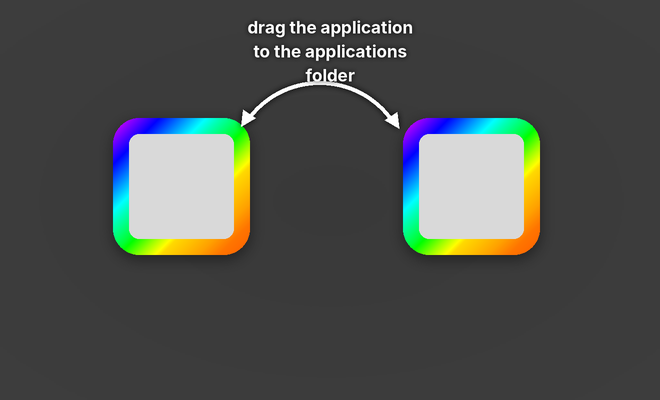
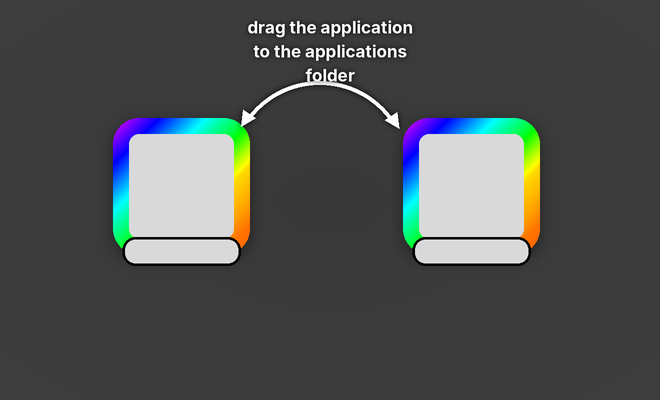
Add name plates to the default background
Each slot now carries the outlined plate the Finder's item name sits on:
118 x 28.5 pt, 13 pt corners, centred on the slot at y 251.2, straddling
its bottom edge.

Geometry was fitted against the reference image by sweeping size,
position, radius and stroke width; mean absolute pixel error over the
plate region is 5.3/255, and 3.6/255 over the whole background.

A 104 pt icon centred in a slot ends at y 238, so its label lands inside
the plate without any change to the defaults.

Claude-Session: https://claude.ai/code/session_01SDH5NXA64HUyZR5Gy68dyG

Changed region(s): [[0.6061, 0.57, 0.8182, 0.69], [0.1818, 0.57, 0.3636, 0.69]]

diff --git a/assets/make-assets.py b/assets/make-assets.py
@@ -163,6 +163,14 @@ SLOT_LEFT_X = 113
 SLOT_RIGHT_X = 403
 SLOT_FILL = (217, 217, 217)
 
+# The outlined plate at the foot of each slot, where the Finder draws the
+# item's name. Centred on the slot, straddling its bottom edge.
+PLATE_WIDTH = 118
+PLATE_HEIGHT = 28.5
+PLATE_CENTRE_Y = 251.2
+PLATE_RADIUS = 13
+PLATE_STROKE = 2.6
+
 # Hue (degrees) along the top-left to bottom-right diagonal of a slot.
 HUE_STOPS = [
     (0.000, 300.0), (0.080, 271.0), (0.248, 212.0), (0.390, 163.0),
@@ -228,6 +236,23 @@ def draw_slot(canvas, x, y, scale):
     canvas.alpha_composite(slot, (x, y))
 
 
+def draw_label_plate(canvas, slot_x, scale):
+    """The outlined name plate under a slot."""
+    centre_x = (slot_x + SLOT_SIZE / 2) * scale
+    centre_y = PLATE_CENTRE_Y * scale
+    half_w = PLATE_WIDTH * scale / 2
+    half_h = PLATE_HEIGHT * scale / 2
+
+    plate = Image.new("RGBA", canvas.size, (0, 0, 0, 0))
+    ImageDraw.Draw(plate).rounded_rectangle(
+        [centre_x - half_w, centre_y - half_h, centre_x + half_w, centre_y + half_h],
+        radius=PLATE_RADIUS * scale,
+        fill=SLOT_FILL + (255,),
+        outline=(0, 0, 0, 255),
+        width=round(PLATE_STROKE * scale))
+    canvas.alpha_composite(plate)
+
+
 def draw_arrow(canvas, scale):
     """The curved double-headed arrow between the two slots."""
     import math
@@ -287,8 +312,10 @@ def make_background(path, width=660, height=400, scale=1, lines=None, supersampl
     shade = vignette.point(lambda v: 57 + round(v * 4 / 255))
     canvas = Image.merge("RGB", (shade, shade, shade)).convert("RGBA")
 
-    draw_slot(canvas, SLOT_LEFT_X * s, SLOT_Y * s, s)
-    draw_slot(canvas, SLOT_RIGHT_X * s, SLOT_Y * s, s)
+    for slot_x in (SLOT_LEFT_X, SLOT_RIGHT_X):
+        draw_slot(canvas, slot_x * s, SLOT_Y * s, s)
+    for slot_x in (SLOT_LEFT_X, SLOT_RIGHT_X):
+        draw_label_plate(canvas, slot_x, s)
     draw_arrow(canvas, s)
     draw_caption(canvas, s, lines=lines)
 

diff --git a/README.md b/README.md
@@ -87,7 +87,8 @@ Save the project (⌘S) and the next release is one keystroke.
   first one.
 - Leave room where the icons go. Icon positions are the *centre* of the icon,
   which is what the preview draws. The bundled background has its two slots
-  centred at 181, 186 and 471, 186, sized for 104 pt icons.
+  centred at 181, 186 and 471, 186, sized for 104 pt icons, and the name
+  plate under each slot is where the Finder draws the item's name.
 - `assets/make-assets.py` draws the bundled background and app icon. Edit the
   constants at the top of the file and run it to make a variant at both
   resolutions:
